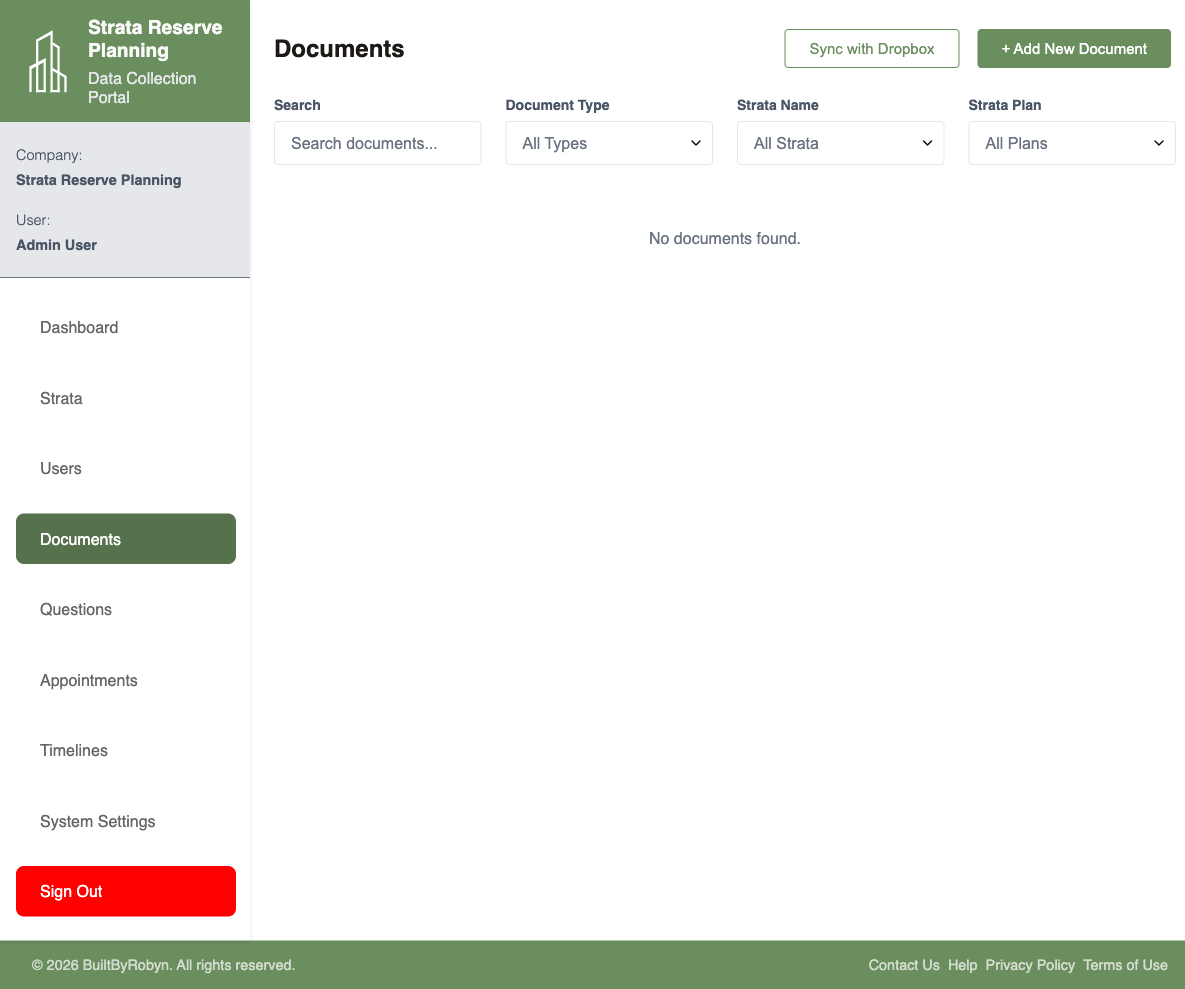
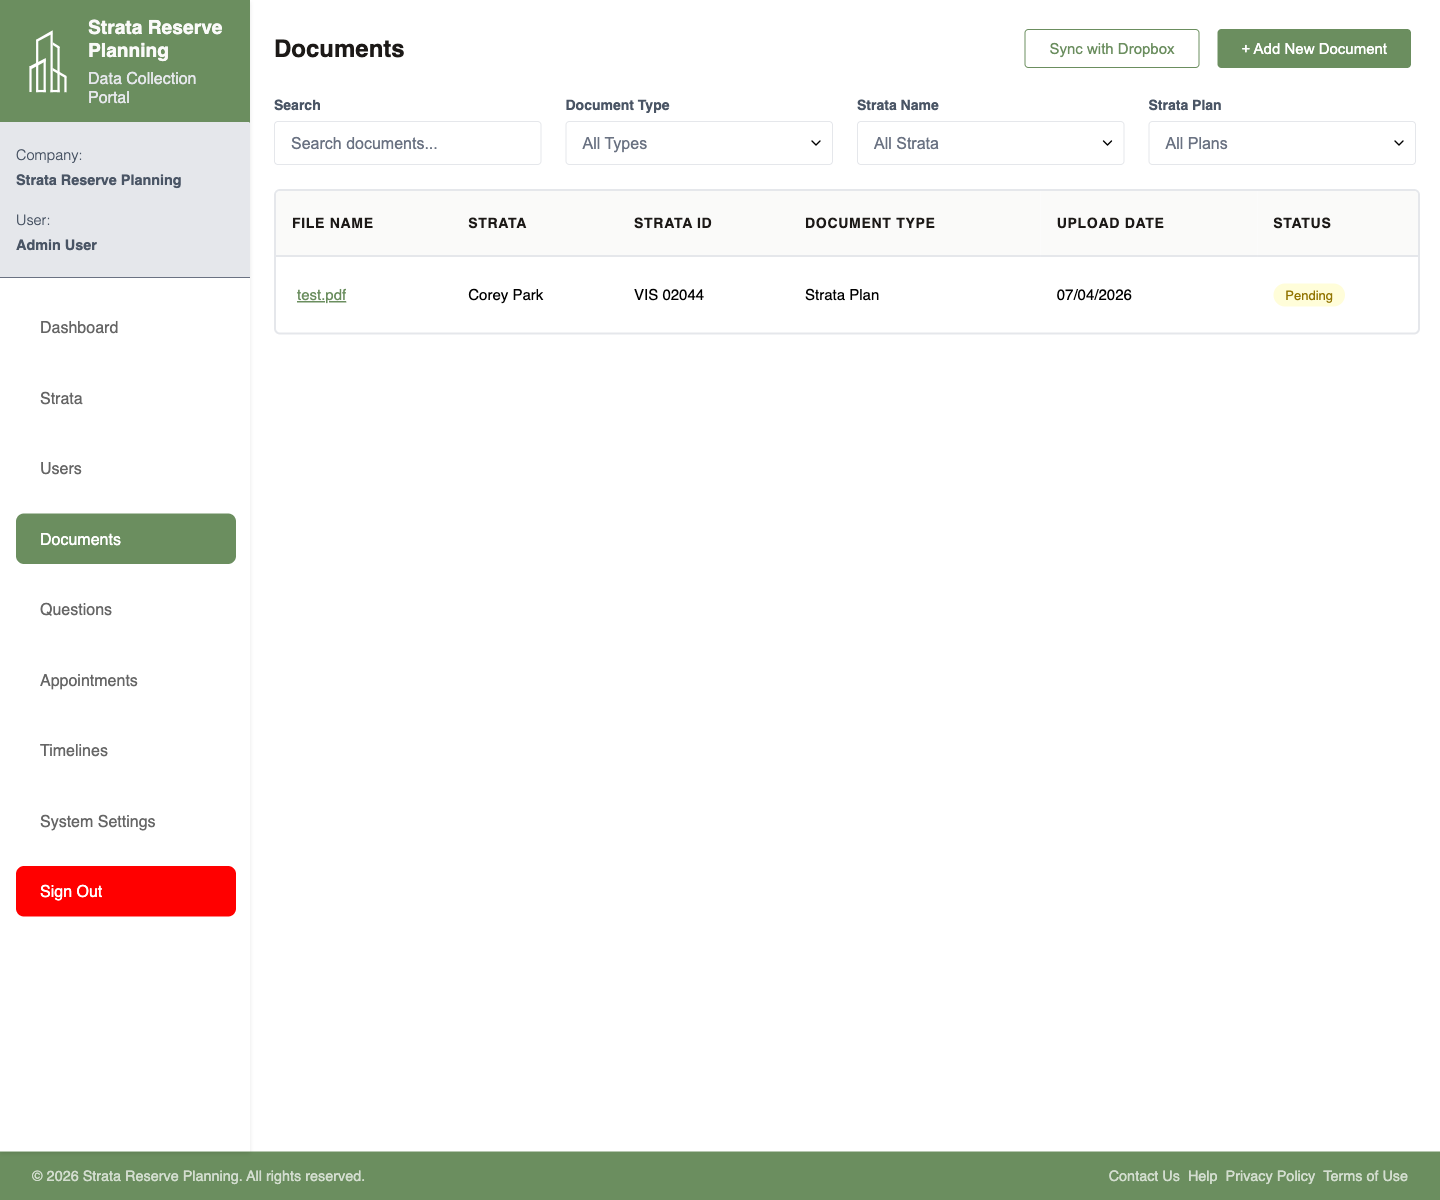
docs: refresh portal guide screenshots and URLs

diff --git a/output/client-portal-guide/index.html b/output/client-portal-guide/index.html
@@ -196,7 +196,7 @@
       <div class="meta">
         <div class="meta-card">
           <strong>Portal URL</strong>
-          <a href="https://srp.builtbyrobyn.com/">https://srp.builtbyrobyn.com/</a>
+          <a href="https://frontend-3zrz.onrender.com">https://frontend-3zrz.onrender.com</a>
         </div>
         <div class="meta-card">
           <strong>Client Login</strong>
@@ -389,26 +389,26 @@
       <h2>Appointment Booking</h2>
       <div class="section-grid">
         <div>
-          <p>The local guide describes appointment booking after submission review. In this live demo account, the available client appointment route is the draft meeting scheduler.</p>
+          <p>The local guide describes appointment booking after submission review. In the refreshed live demo deployment, this client account no longer exposes the older draft meeting scheduler and instead surfaces deadline follow-up through the dashboard and timelines page.</p>
           <ol class="steps">
-            <li>Use the appointment card from the dashboard or open the <strong>Draft Meeting</strong> item in the left navigation.</li>
-            <li>Review the calendar to see which dates are marked available and which are unavailable.</li>
-            <li>Select the preferred date and time options for the draft meeting.</li>
-            <li>After submission, monitor dashboard notifications and appointment status messages for approvals, cancellations, or requests to choose new dates.</li>
-            <li>If a requested slot is not accepted, return to the scheduling page and choose a new set of available dates.</li>
+            <li>Use the dashboard task cards to jump into the active next step for the file.</li>
+            <li>Review the <strong>Deadlines</strong> card for status prompts and then open the timelines page for date-related follow-up.</li>
+            <li>Confirm the current fiscal year, AGM, depreciation report, and target date details shown for the file.</li>
+            <li>After updates are submitted, monitor dashboard notifications and timeline status messaging for follow-up requests.</li>
+            <li>If scheduling returns as a visible workflow in a later account state, continue from the client dashboard into that appointment-specific route.</li>
           </ol>
           <div class="note">
-            <strong>Demo account note:</strong> The transcript refers to inspection and draft meeting booking phases. The live account available for capture is already at the draft meeting stage, so that is the state shown here.
+            <strong>Demo account note:</strong> The transcript references inspection and draft meeting booking phases, but the current live client account used for capture now lands in a post-submission state with deadline tracking instead of the older scheduling calendar.
           </div>
         </div>
         <div class="double">
           <figure>
             <img src="screenshots/02-dashboard.png" alt="Dashboard appointment card">
-            <figcaption>The dashboard card links directly into the meeting scheduling flow.</figcaption>
+            <figcaption>The dashboard now surfaces the next active follow-up step through its priority task cards.</figcaption>
           </figure>
           <figure>
-            <img src="screenshots/11-draft-meeting-calendar.png" alt="Draft meeting calendar">
-            <figcaption>Draft meeting scheduling page with available dates and evening time slots.</figcaption>
+            <img src="screenshots/11-draft-meeting-calendar.png" alt="Client timelines page">
+            <figcaption>The timelines page now serves as the live date-focused follow-up view for this demo account.</figcaption>
           </figure>
         </div>
       </div>

diff --git a/output/admin-portal-guide/index.html b/output/admin-portal-guide/index.html
@@ -181,7 +181,7 @@
       <div class="meta">
         <div class="meta-card">
           <strong>Portal URL</strong>
-          <a href="https://srp.builtbyrobyn.com/">https://srp.builtbyrobyn.com/</a>
+          <a href="https://frontend-3zrz.onrender.com">https://frontend-3zrz.onrender.com</a>
         </div>
         <div class="meta-card">
           <strong>Admin Login</strong>
@@ -343,7 +343,7 @@
             <li>Review client-submitted records through the strata-side review flow before finalizing approvals.</li>
           </ol>
           <div class="note">
-            <strong>Capture note:</strong> In this demo account the documents listing is currently empty, so the screenshot reflects the live no-documents state rather than an approval queue.
+            <strong>Capture note:</strong> The refreshed demo deployment now shows a live pending client document, so the screenshot reflects an active review queue rather than the older empty-state page.
           </div>
         </div>
         <div>
